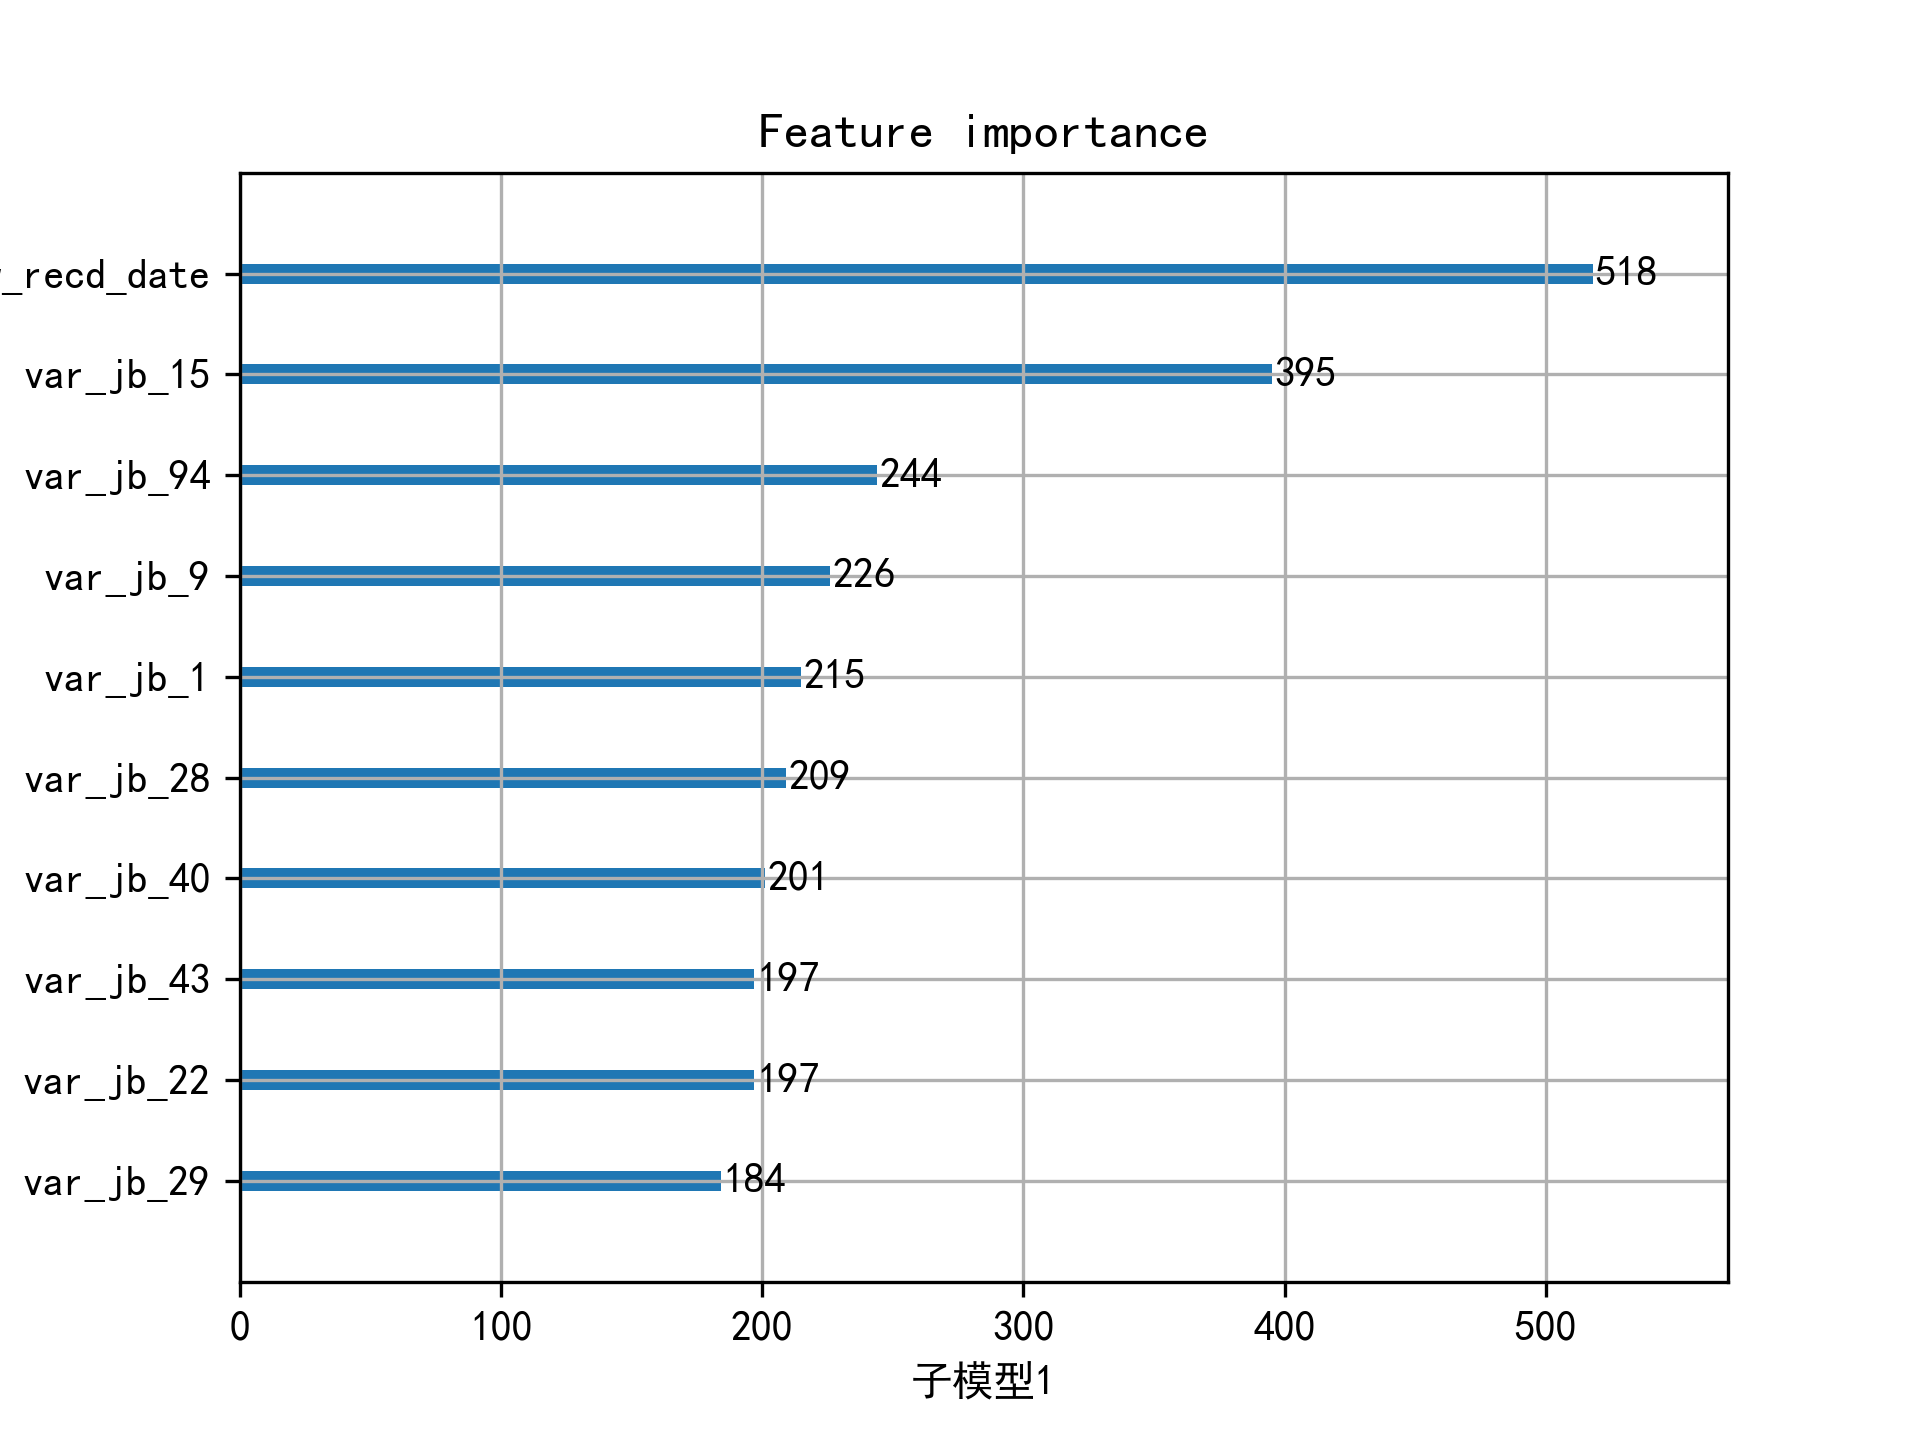
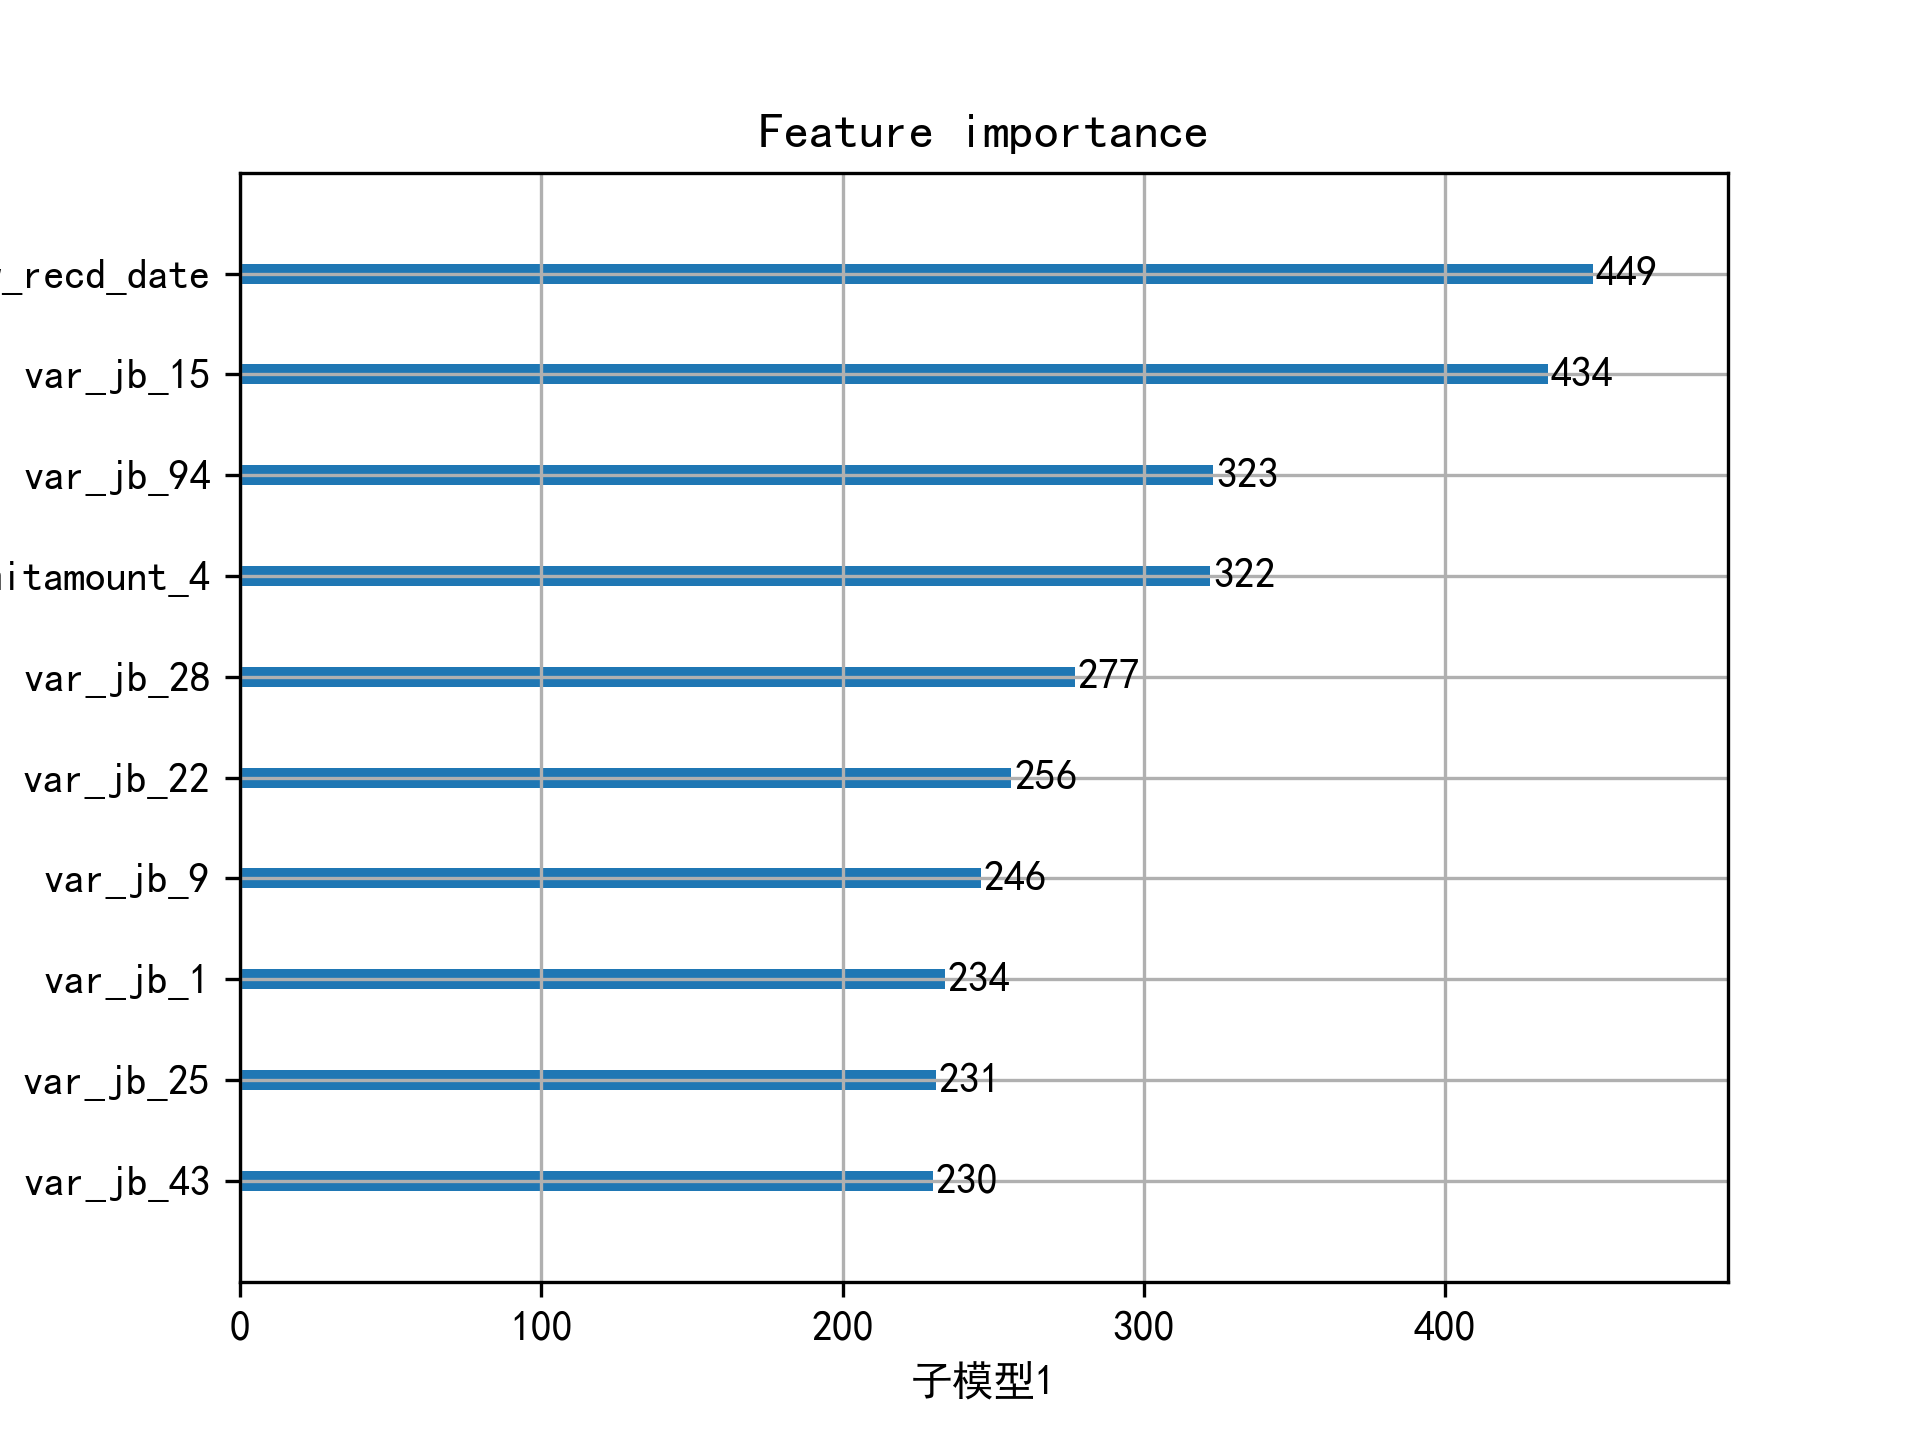
20200507

diff --git a/GroupVersion.py b/GroupVersion.py
@@ -187,7 +187,7 @@ def transSampleToList(df_train, df_test, feature_categorical):
 
     # train_list, test_list = transOnehotToList(df_train, df_test, column_name)
 
-    # df_train, df_test, column_name = GroupFunc.getGMMNullFeature(df_train, df_test, 2)
+    df_train, df_test, column_name = GroupFunc.getGMMNullFeature(df_train, df_test, 4)
     # df_train, column_name = GroupFunc.decisionTreeMethod2(df_train, False)
     # df_test, column_name = GroupFunc.decisionTreeMethod2(df_test, False)
 
@@ -196,7 +196,7 @@ def transSampleToList(df_train, df_test, feature_categorical):
     # df_test, column_name = GroupFunc.decisionTreeMethod3(df_test, 'type_91|个人消费贷款', 0.5, 'var_jb_64', 13.5, 'var_jb_40',
     #                                                      0.5)
 
-    df_train, df_test, column_name = GroupFunc.getKmeansAllFeature(df_train, df_test, 3)
+    # df_train, df_test, column_name = GroupFunc.getKmeansAllFeature(df_train, df_test, 3)
 
     train_list, test_list = transOnehotToList(df_train, df_test, column_name)
 

diff --git a/ParseData.py b/ParseData.py
@@ -34,6 +34,7 @@ def loadOOTData():
     print('Load oot data...')
     global TYPE
     TYPE = 'OOT'
+    print('系统为%s系统..' % platform.system())
     if platform.system() == 'Windows':
         df_train = pd.read_csv('D:/zhuyuting/cxqz/task1/归档/data_m2_oot.csv')
         df_test = pd.read_csv('D:/zhuyuting/cxqz/task1/归档/data_reserved2_oot.csv')
